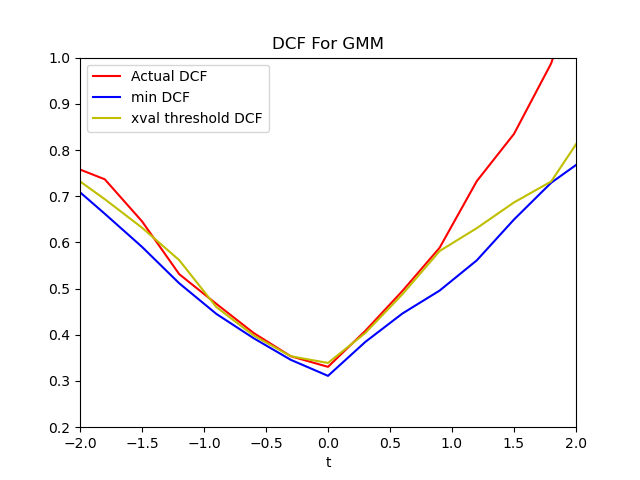
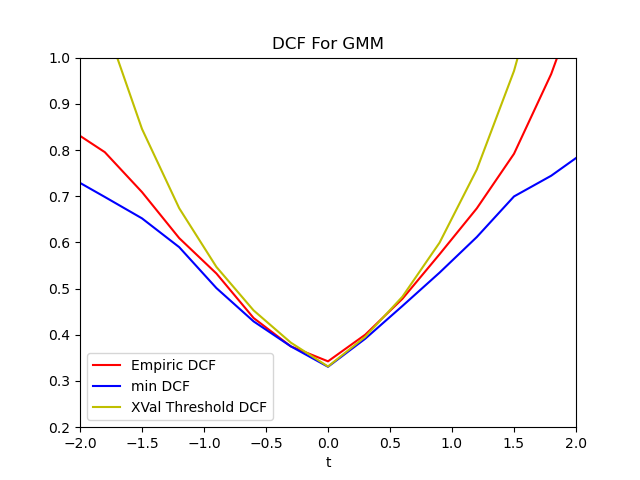
reverting to 2ba2495

diff --git a/projectFiles/utilityML/Functions/bayes.py b/projectFiles/utilityML/Functions/bayes.py
@@ -74,7 +74,7 @@ def generate_roc_curve(labels, scores, pi, Cfn, Cfp):
 
 	return FPR_array, TPR_array
 
-def bayes_error_plots(plot_name, labels, scores, calibrated_scores = None):
+def bayes_error_plots(plot_name, labels, scores, validation_threshold = None, calibrated_scores = None):
 
 	#IPOTESI DI BASE
 	#Una qualsiasi applicazione (pi, Cfn, Cfp), è equivalente
@@ -90,22 +90,12 @@ def bayes_error_plots(plot_name, labels, scores, calibrated_scores = None):
 	#1) I valori di p vanno da -3 a 3
 	effPriorLogOdds = numpy.linspace(-3, 3, 21)
 
-	# split data
-	n70 = int(len(scores)*0.7)
-	numpy.random.seed(0)
-	idx = numpy.random.permutation(len(scores))
-	idx70 = idx[0:n70]
-	idx30 = idx[n70:]
-
-	data70 = scores[idx70]
-	data30 = scores[idx30]
-	label70 = labels[idx70]
-	label30 = labels[idx30]
-
+	DCF_array = []
 	DCF_min_array = []
-	xval_DCF_array = []
-	actualDCF_array = []
 
+	if(validation_threshold != None):
+		DCF_validation = []
+	
 	if(calibrated_scores is not None):
 		DCF_calibrated = []
 
@@ -114,15 +104,13 @@ def bayes_error_plots(plot_name, labels, scores, calibrated_scores = None):
 	for p in effPriorLogOdds:
 		pi_tilde = 1 / (1 + numpy.exp(-p))
 
+		#EMPIRIC DCF
+		DCF_array.append(compute_normalized_dcf_binary(compute_confusion_matrix_binary(labels, scores, pi_tilde, 1, 1), pi_tilde, 1, 1))
 		#MIN DCF
-		DCF_min_array.append(compute_min_dcf(label30, data30, pi_tilde, 1, 1)[0])
-		#threshold
-		threshold = compute_min_dcf(label70, data70, pi_tilde, 1, 1)[1]
-		#xval threshold DCF
-		xval_DCF_array.append(compute_normalized_dcf_binary(compute_confusion_matrix_binary(label30, data30, pi_tilde, 1, 1, t=threshold), pi_tilde, 1, 1))
-		# actual DCF
-		actualDCF_array.append(compute_normalized_dcf_binary(compute_confusion_matrix_binary(label30, data30, pi_tilde, 1, 1), pi_tilde, 1, 1))
-
+		DCF_min_array.append(compute_min_dcf(labels, scores, pi_tilde, 1, 1)[0])
+		#DCF USING THE VALIDATION THRESHOLD
+		if(validation_threshold != None):
+			DCF_validation.append(compute_normalized_dcf_binary(compute_confusion_matrix_binary(labels, scores, pi_tilde, 1, 1, t=validation_threshold), pi_tilde, 1, 1))
 		if(calibrated_scores is not None):
 			DCF_calibrated.append(compute_normalized_dcf_binary(compute_confusion_matrix_binary(labels, calibrated_scores, pi_tilde, 1, 1), pi_tilde, 1, 1))
 
@@ -137,10 +125,11 @@ def bayes_error_plots(plot_name, labels, scores, calibrated_scores = None):
 
 	
 	plt.xlabel("t")
-	plt.plot(effPriorLogOdds, actualDCF_array, label="Actual DCF", color='r') 
+	plt.plot(effPriorLogOdds, DCF_array, label="Empiric DCF", color='r') 
 	plt.plot(effPriorLogOdds, DCF_min_array, label="min DCF", color='b')
-	plt.plot(effPriorLogOdds, xval_DCF_array, label="xval threshold DCF", color='y')
-
+	if(validation_threshold != None):
+		plt.plot(effPriorLogOdds, DCF_validation, label="XVal Threshold DCF", color='y')
+	
 	if(calibrated_scores is not None):
 		plt.plot(effPriorLogOdds, DCF_calibrated, label="Calibrated DCF", color='g')
 

diff --git a/projectFiles/test_svm.py b/projectFiles/test_svm.py
@@ -64,7 +64,7 @@ with open("results/experimental/linearsvm.txt", "w") as f:
     f.write(f"minDCF Threshold DCF: {min_dcf}\n")
     f.write(f"DCF calibrated: {calibrated_dcf}")
 
-bayes_error_plots("DCF for Linear SVM", svm_l.LTE, svm_l.score[0], calibrated_scores = calibrated_scores)
+bayes_error_plots("DCF for Linear SVM", svm_l.LTE, svm_l.score[0], validation_threshold = -0.5213549363675212, calibrated_scores = calibrated_scores)
 
 
 Printer.print_title("SVM linear data")
@@ -97,7 +97,7 @@ xvalthreshold_dcf = svm_p.compute_dcf(-0.30825297694737075)
 #DCF MINIMO
 min_dcf = svm_p.compute_min_dcf()[0]
 
-bayes_error_plots("DCF for Poly SVM", svm_p.LTE, svm_p.score)
+bayes_error_plots("DCF for Poly SVM", svm_p.LTE, svm_p.score, validation_threshold = -0.30825297694737075)
 
 Printer.print_title("SVM polynomial data")
 Printer.print_line(f"DCF: {empiric_dcf}")
@@ -135,7 +135,7 @@ with open("results/experimental/rbfsvm.txt", "w") as f:
     f.write(f"X-validation Threshold DCF: {xvalthreshold_dcf}\n")
     f.write(f"minDCF Threshold DCF: {min_dcf}\n")
 
-bayes_error_plots("DCF for RBF SVM", svm_rbf.LTE, svm_rbf.score)
+bayes_error_plots("DCF for RBF SVM", svm_rbf.LTE, svm_rbf.score, validation_threshold = 6.985426439970719e-07)
 
 
 

diff --git a/projectFiles/utilityML/Functions/crossvalid.py b/projectFiles/utilityML/Functions/crossvalid.py
@@ -2,6 +2,7 @@ import numpy
 from utilityML.Functions.bayes import compute_min_dcf, compute_confusion_matrix_binary, compute_normalized_dcf_binary, compute_dcf_binary
 #from utilityML.Functions.calibration import calibration
 from utilityML.Functions.dimred import *
+from utilityML.Functions.genpurpose import split_db_2to1
 from utilityML.Classifiers.SVM import SVM_linear, SVM_poly, SVM_RBF
 from utilityML.Classifiers.GMM import GMM
 from utilityML.Classifiers.LogReg import LogReg

diff --git a/projectFiles/test_logreg.py b/projectFiles/test_logreg.py
@@ -77,5 +77,5 @@ with open("results/experimental/logreg.txt", "w") as f:
     f.write(f"minDCF Threshold DCF: {min_dcf}\n")
     f.write(f"DCF calibrated: {calibrated_dcf}")
 
-bayes_error_plots("DCF for LogReg", log_reg.LTE, log_reg.S, calibrated_scores = calibrated_scores)
+bayes_error_plots("DCF for LogReg", log_reg.LTE, log_reg.S, validation_threshold = -0.5865054923862975, calibrated_scores = calibrated_scores)
 

diff --git a/projectFiles/test_quadlogreg.py b/projectFiles/test_quadlogreg.py
@@ -56,4 +56,4 @@ with open("results/experimental/quadlogreg.txt", "w") as f:
     f.write(f"X-validation Threshold DCF: {xvalthreshold_dcf}\n")
     f.write(f"minDCF Threshold DCF: {min_dcf}\n")
 
-bayes_error_plots("DCF for Quadratic LogReg", quad_log_reg.LTE, quad_log_reg.S)
+bayes_error_plots("DCF for Quadratic LogReg", quad_log_reg.LTE, quad_log_reg.S, validation_threshold = -0.43632266055187996)

diff --git a/projectFiles/test_gmm.py b/projectFiles/test_gmm.py
@@ -64,4 +64,4 @@ with open("results/experimental/gmm.txt", "w") as f:
     f.write(f"X-validation Threshold DCF: {xvalthreshold_dcf}\n")
     f.write(f"minDCF Threshold DCF: {min_dcf}\n")
 
-bayes_error_plots("DCF For GMM", gmm.LTE, gmm.llrs)
+bayes_error_plots("DCF For GMM", gmm.LTE, gmm.llrs, validation_threshold = -0.09985079274315645)

diff --git a/projectFiles/test_gaussian.py b/projectFiles/test_gaussian.py
@@ -52,4 +52,4 @@ with open("results/experimental/mvg.txt", "w") as f:
     f.write(f"X-validation Threshold DCF: {xvalthreshold_dcf}\n")
     f.write(f"minDCF Threshold DCF: {min_dcf}\n")
 
-bayes_error_plots("DCF For MVG", mvg.LTE, mvg.llrs)
+bayes_error_plots("DCF For MVG", mvg.LTE, mvg.llrs, validation_threshold = 0.42050259957894554)

diff --git a/projectFiles/utilityML/Classifiers/TiedNaive.py b/projectFiles/utilityML/Classifiers/TiedNaive.py
@@ -1,7 +1,7 @@
 import numpy
 
 from ..Functions.bayes import compute_confusion_matrix_binary, compute_normalized_dcf_binary
-from ..Functions.genpurpose import vrow, logpdf_GAU_ND, get_DTRs
+from ..Functions.genpurpose import vrow, logpdf_GAU_ND, split_db_2to1, get_DTRs
 
 class TiedNaive:
 

diff --git a/projectFiles/utilityML/Classifiers/NaiveBayes.py b/projectFiles/utilityML/Classifiers/NaiveBayes.py
@@ -1,5 +1,5 @@
 import numpy
-from ..Functions.genpurpose import vrow, logpdf_GAU_ND, get_DTRs
+from ..Functions.genpurpose import vrow, logpdf_GAU_ND, split_db_2to1, get_DTRs
 from ..Functions.bayes import compute_confusion_matrix_binary, compute_normalized_dcf_binary
 
 class NaiveBayes:

diff --git a/projectFiles/utilityML/Classifiers/TiedCovariance.py b/projectFiles/utilityML/Classifiers/TiedCovariance.py
@@ -1,5 +1,5 @@
 import numpy
-from ..Functions.genpurpose import vrow, logpdf_GAU_ND, get_DTRs
+from ..Functions.genpurpose import vrow, logpdf_GAU_ND, get_DTRs, split_db_2to1
 from ..Functions.bayes import compute_confusion_matrix_binary, compute_normalized_dcf_binary
 
 
